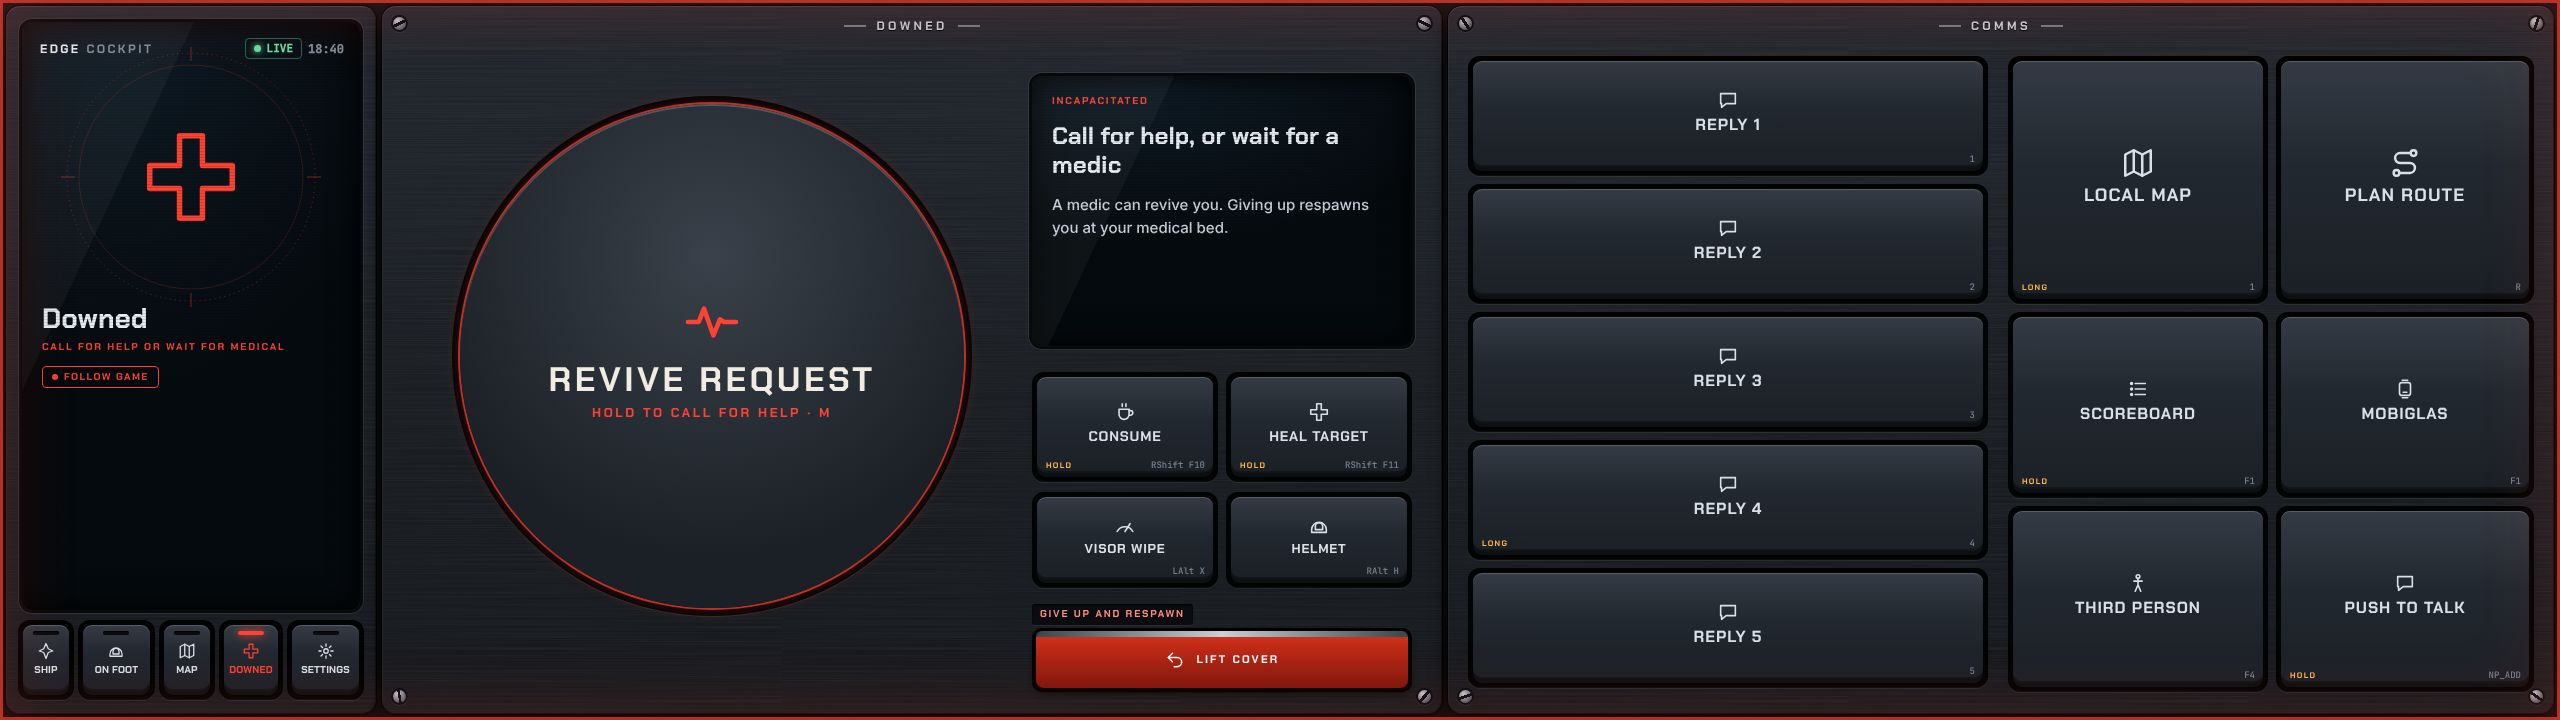
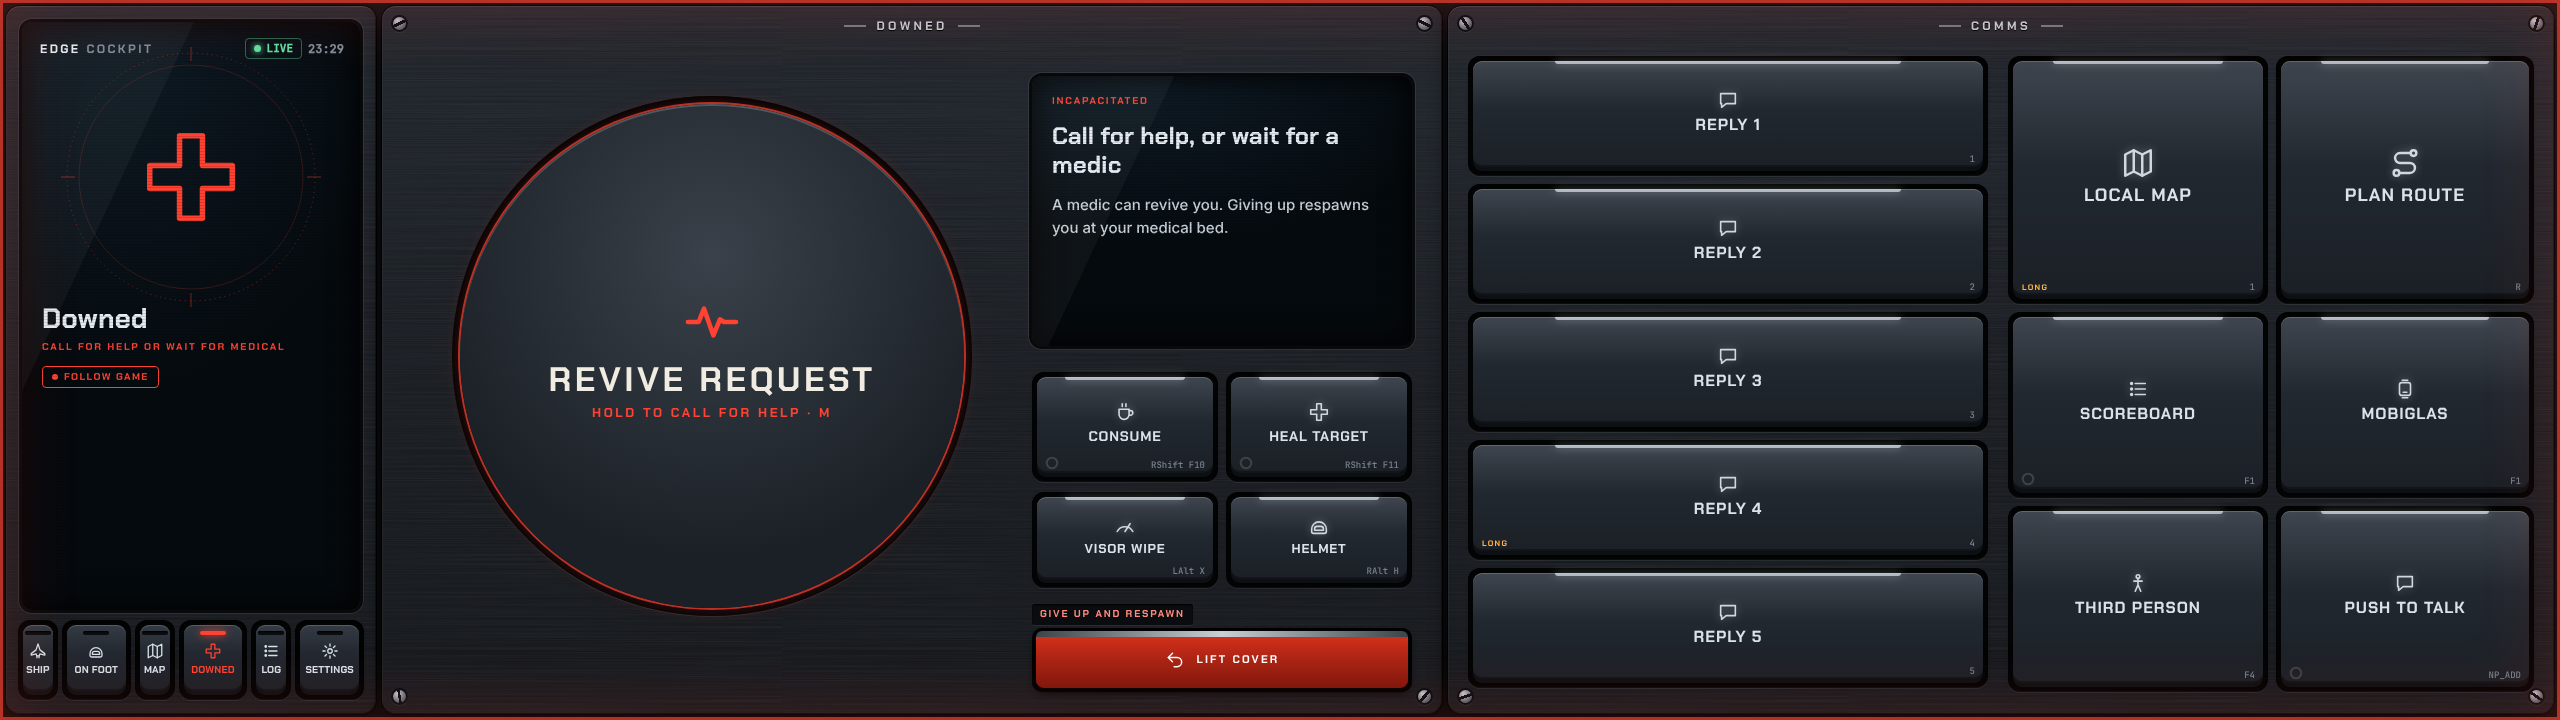
README and site: new screenshots and everything since 0.4.0
Claude-Session: https://claude.ai/code/session_019a7Xd5R1iTRyBGREd16EGj

diff --git a/site/index.html b/site/index.html
@@ -71,9 +71,9 @@
   <article class="feat">
     <div class="feat-text">
       <h3>Follows the game</h3>
-      <p>It reads the game's log while you play. Board a ship and its page opens in the maker's colours, with its outline, role and quantum target. Step out and you get On foot. Go down and a big revive button is waiting.</p>
+      <p>It reads the game's log while you play. Board a ship and its page opens in the maker's colours, with a render of the ship, its role and quantum target. Drake, Aegis, Origin, MISC and Anvil ships also get their maker's plates and trim. Step out and you get On foot. Go down and a big revive button is waiting.</p>
     </div>
-    <a class="shot" href="img/panel-onfoot.png"><img src="img/panel-onfoot.png" width="2560" height="720" loading="lazy" alt="On-foot page with weapon wheel, suit and comms"></a>
+    <a class="shot" href="img/panel-armistice.png"><img src="img/panel-armistice.png" width="2560" height="720" loading="lazy" alt="A Drake Cutlass in an armistice zone, with its render and Drake plates"></a>
   </article>
 
   <article class="feat">
@@ -94,10 +94,18 @@
 
   <article class="feat">
     <div class="feat-text">
+      <h3>Your session, logged</h3>
+      <p>The Log page shows time played, kills, times downed, missions and ships flown. It also shows who downed you last and with what, your region and shard, the last jump, finished refinery jobs, and a timeline of the session.</p>
+    </div>
+    <a class="shot" href="img/panel-log.png"><img src="img/panel-log.png" width="2560" height="720" loading="lazy" alt="Log page with session stats and a timeline"></a>
+  </article>
+
+  <article class="feat">
+    <div class="feat-text">
       <h3>Your keys, not new ones</h3>
       <p>It reads your <code>actionmaps.xml</code>, so keys you rebound in game just work. The game keeps focus while you tap. Settings lists any key the console can't press.</p>
     </div>
-    <a class="shot" href="img/panel-settings.png"><img src="img/panel-settings.png" width="2560" height="720" loading="lazy" alt="Settings with keybind check and what's new"></a>
+    <a class="shot" href="img/panel-settings.png"><img src="img/panel-settings.png" width="2560" height="720" loading="lazy" alt="Screen settings with the maker theme"></a>
   </article>
 
   <ul class="grid">
@@ -106,6 +114,9 @@
     <li><b>Night mode</b><span>On, off, or automatic from 20:00 to 07:00.</span></li>
     <li><b>Updates when you're docked</b><span>A new release is offered with its notes, and only while you're not playing.</span></li>
     <li><b>Light</b><span>A 1.5 MB installer. Nothing animates while the console is idle.</span></li>
+    <li><b>When it goes wrong</b><span>A disabled ship swaps Flight Ready for Self repair and Emergency exit. An amber chip shows when your client stalls.</span></li>
+    <li><b>MFD &amp; assists</b><span>A key for each MFD screen, and switches for light amplification, auto precision and wind compensation.</span></li>
+    <li><b>Fresh start</b><span>When the game restarts with a new log, the console starts over with it.</span></li>
     <li><b>No accidents</b><span>Eject is a slide and self-destruct sits under a red cover, so neither fires on a stray tap.</span></li>
   </ul>
 </section>

diff --git a/site/build.py b/site/build.py
@@ -18,7 +18,7 @@ REPO = "https://github.com/pcanilho/edge-cockpit"
 ROOT = Path(__file__).resolve().parent.parent
 SITE = ROOT / "site"
 FONTS = {"chakra-petch": [600, 700], "inter": [400, 500, 600], "jetbrains-mono": [500]}
-IMAGES = ["panel", "panel-onfoot", "panel-mining", "panel-alert", "panel-settings", "social-preview"]
+IMAGES = ["panel", "panel-armistice", "panel-mining", "panel-alert", "panel-settings", "panel-log", "social-preview"]
 
 
 def release_fields(path):

diff --git a/README.md b/README.md
@@ -29,7 +29,7 @@ It finds the touchscreen by itself (or pick one in **Settings > Screen**), and h
 
 ## The console
 
-Every ship page has a power plate with a big **Flight Ready** button, a module for your ship's role, a flight plate and a gear plate. The role module is a target dial for fighters, a laser power knob for mining, a beam head for salvage, a tractor beam slider for cargo, and so on. Swipe it sideways or tap the arrows to see the others. No key appears twice on a page. To rearrange the plates, long-press a plate's title, drag the plates and tap **Done**. The order is saved for each role. On foot you get a weapon wheel, your suit and comms, and an Emotes page with hand signals and emotes. Downed, a big revive button.
+Every ship page has a power plate with a big **Flight Ready** button, a module for your ship's role, a flight plate and a gear plate. The role module is a target dial for fighters, a laser power knob for mining, a beam head for salvage, a tractor beam slider for cargo, and so on. Swipe it sideways or tap the arrows to see the others. No key appears twice on a page. To rearrange the plates, long-press a plate's title, drag the plates and tap **Done**. The order is saved for each role. On foot you get a weapon wheel, your suit and comms, and an Emotes page with hand signals and emotes. Downed, a big revive button. The **MFD & assists** page has a key for each MFD screen, ON/OFF switches for light amplification, auto precision and wind compensation, and Self repair all. The **Log** page shows this session: time played, kills, times downed, missions, ships flown, who downed you last, region and shard, the last jump, finished refinery jobs, and a timeline.
 
 | | |
 | --- | --- |
@@ -38,7 +38,9 @@ Every ship page has a power plate with a big **Flight Ready** button, a module f
 | ![Armistice](docs/panel-armistice.png) | ![Red alert](docs/panel-alert.png) |
 | Weapons grey out in armistice zones | Red alert with a CrimeStat |
 | ![Downed](docs/panel-downed.png) | ![Settings](docs/panel-settings.png) |
-| The Downed page opens when you go down | Settings and what's new |
+| The Downed page opens when you go down | Settings, with the maker theme |
+| ![Log](docs/panel-log.png) | ![MFD & assists](docs/panel-mfd.png) |
+| Log page: this session at a glance | MFD screens and assists |
 
 | Control | How it works |
 | --- | --- |
@@ -54,10 +56,13 @@ Every ship page has a power plate with a big **Flight Ready** button, a module f
 ## It follows the game
 
 - Opens the page for what you are doing: your ship's role page when you board, On foot when you leave, Downed when you go down.
-- Takes your ship maker's colours and shows its outline, role and quantum target. Behind it sits a dimmed render of the ship over the maker's name. Outlines and renders come from [FleetYards.net](https://fleetyards.net) the first time a ship is seen and are kept on your PC. On foot it shows the ship you last flew.
+- Takes your ship maker's colours and shows its role and quantum target, with "Arrived" when the drive drops out. Behind it sits a dimmed render of the ship over the maker's name. Renders and outlines come from [FleetYards.net](https://fleetyards.net) the first time a ship is seen and are kept on your PC. On foot it shows the ship you last flew.
+- Maker themes: in a Drake, Aegis, Origin, MISC or Anvil ship, the plates and title trim take that maker's style. **Settings > Screen > Maker theme**: Auto, Off, or one maker always.
 - Shows where you are ("Keeger · Nyx", "Asteroid base · Ungoverned") on a line of the system's planets.
 - Shows your mission: the objective, the contract with its rewards as chips, and where the objective's marker points. Game colour tags, and those of StarStrings and SmartCitizen, are read rather than shown. The game logs no distances, so there are none.
-- Lights a red frame only for a CrimeStat or your ship disabled. Unmonitored or ungoverned space is an amber note.
+- Lights a red frame only for a CrimeStat or your ship disabled. Unmonitored or ungoverned space is an amber note. While the ship is disabled, Flight ready and All systems on become Self repair all and Emergency exit.
+- Shows an amber lag chip when the log reports your client stalled.
+- Starts over when the game restarts and writes a new `Game.log`.
 - Reads your `actionmaps.xml`, so keys you rebound in game just work. **Settings > Keybinds** lists any key the console can't press.
 
 The game doesn't report gear, power, doors, lights or most switches. Where 4.x has separate on and off binds (power, lights, VTOL, limiter, decoupled, G-safe and others), the console uses an ON/OFF switch that sends exactly that state. It shows nothing until you set it, because the console can't know what the ship is doing. **All systems on** sets the main ones in one tap, so the switches match the ship. They go back to unknown when you leave the seat or change ship. Everything else is a push-button (doors get separate Open and Close keys), and the gear lever and missiles show what you last pressed. Hold the EDGE COCKPIT title for 2 seconds to see frame rate, CPU, memory and touch-to-key latency.
